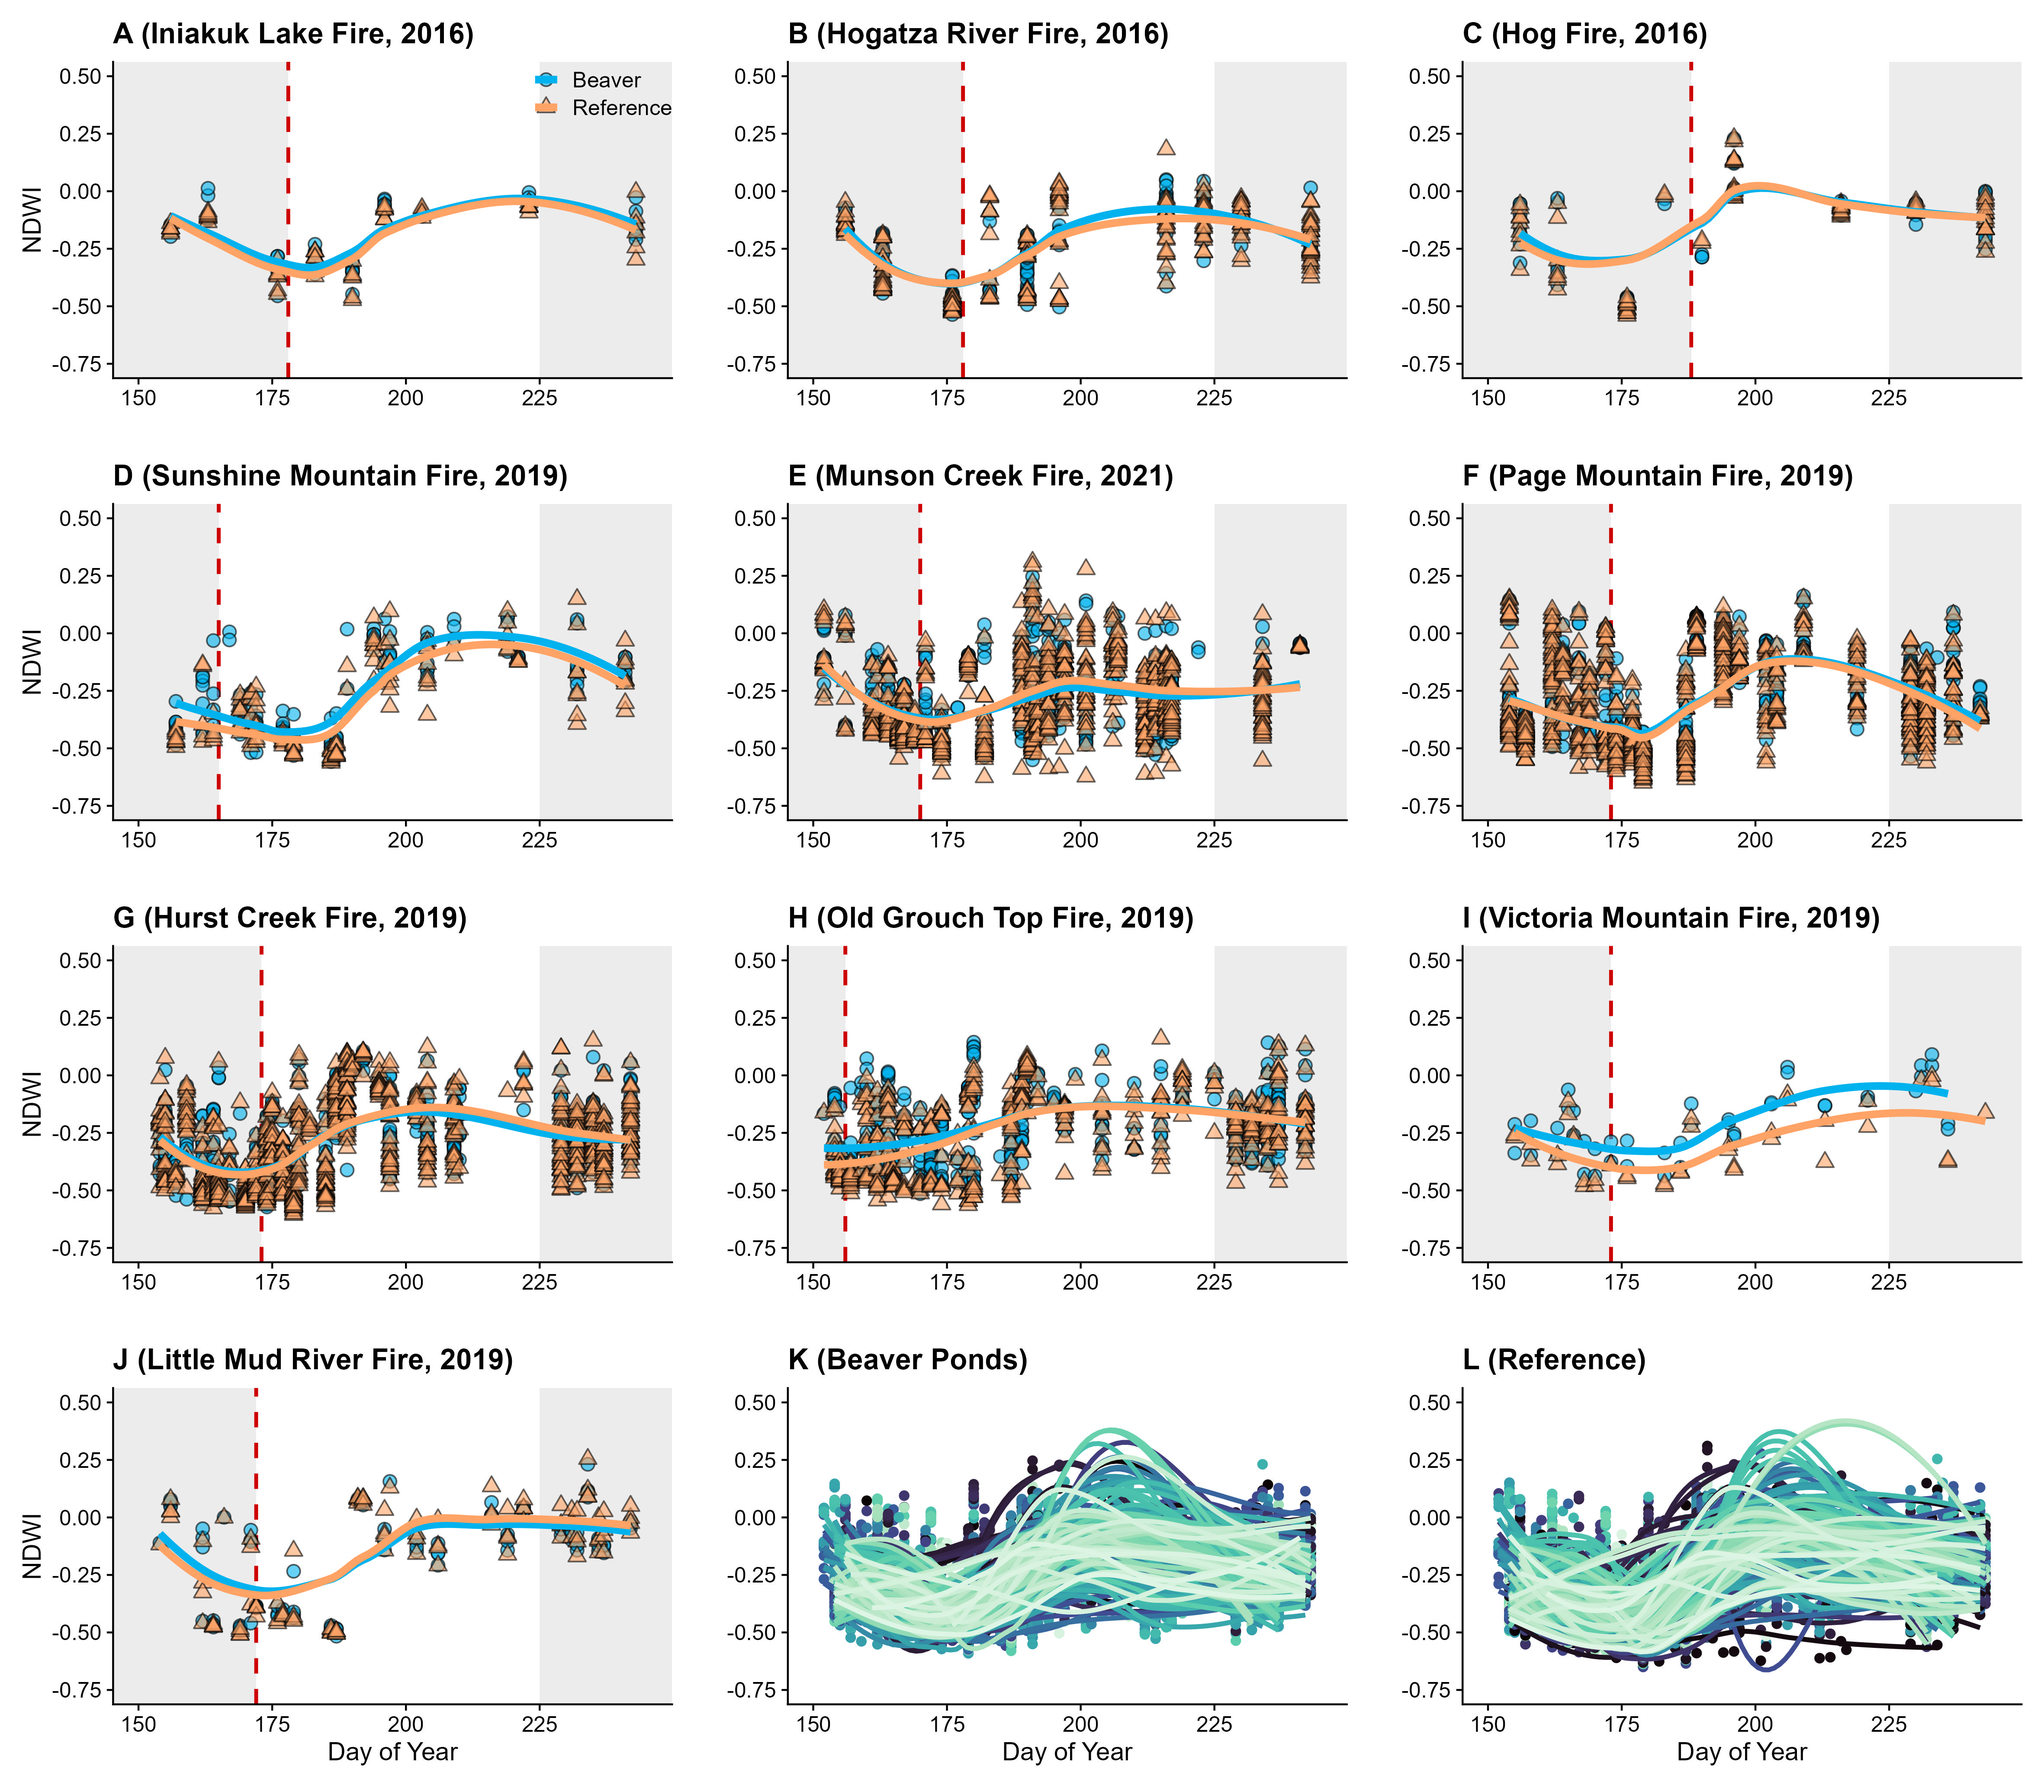
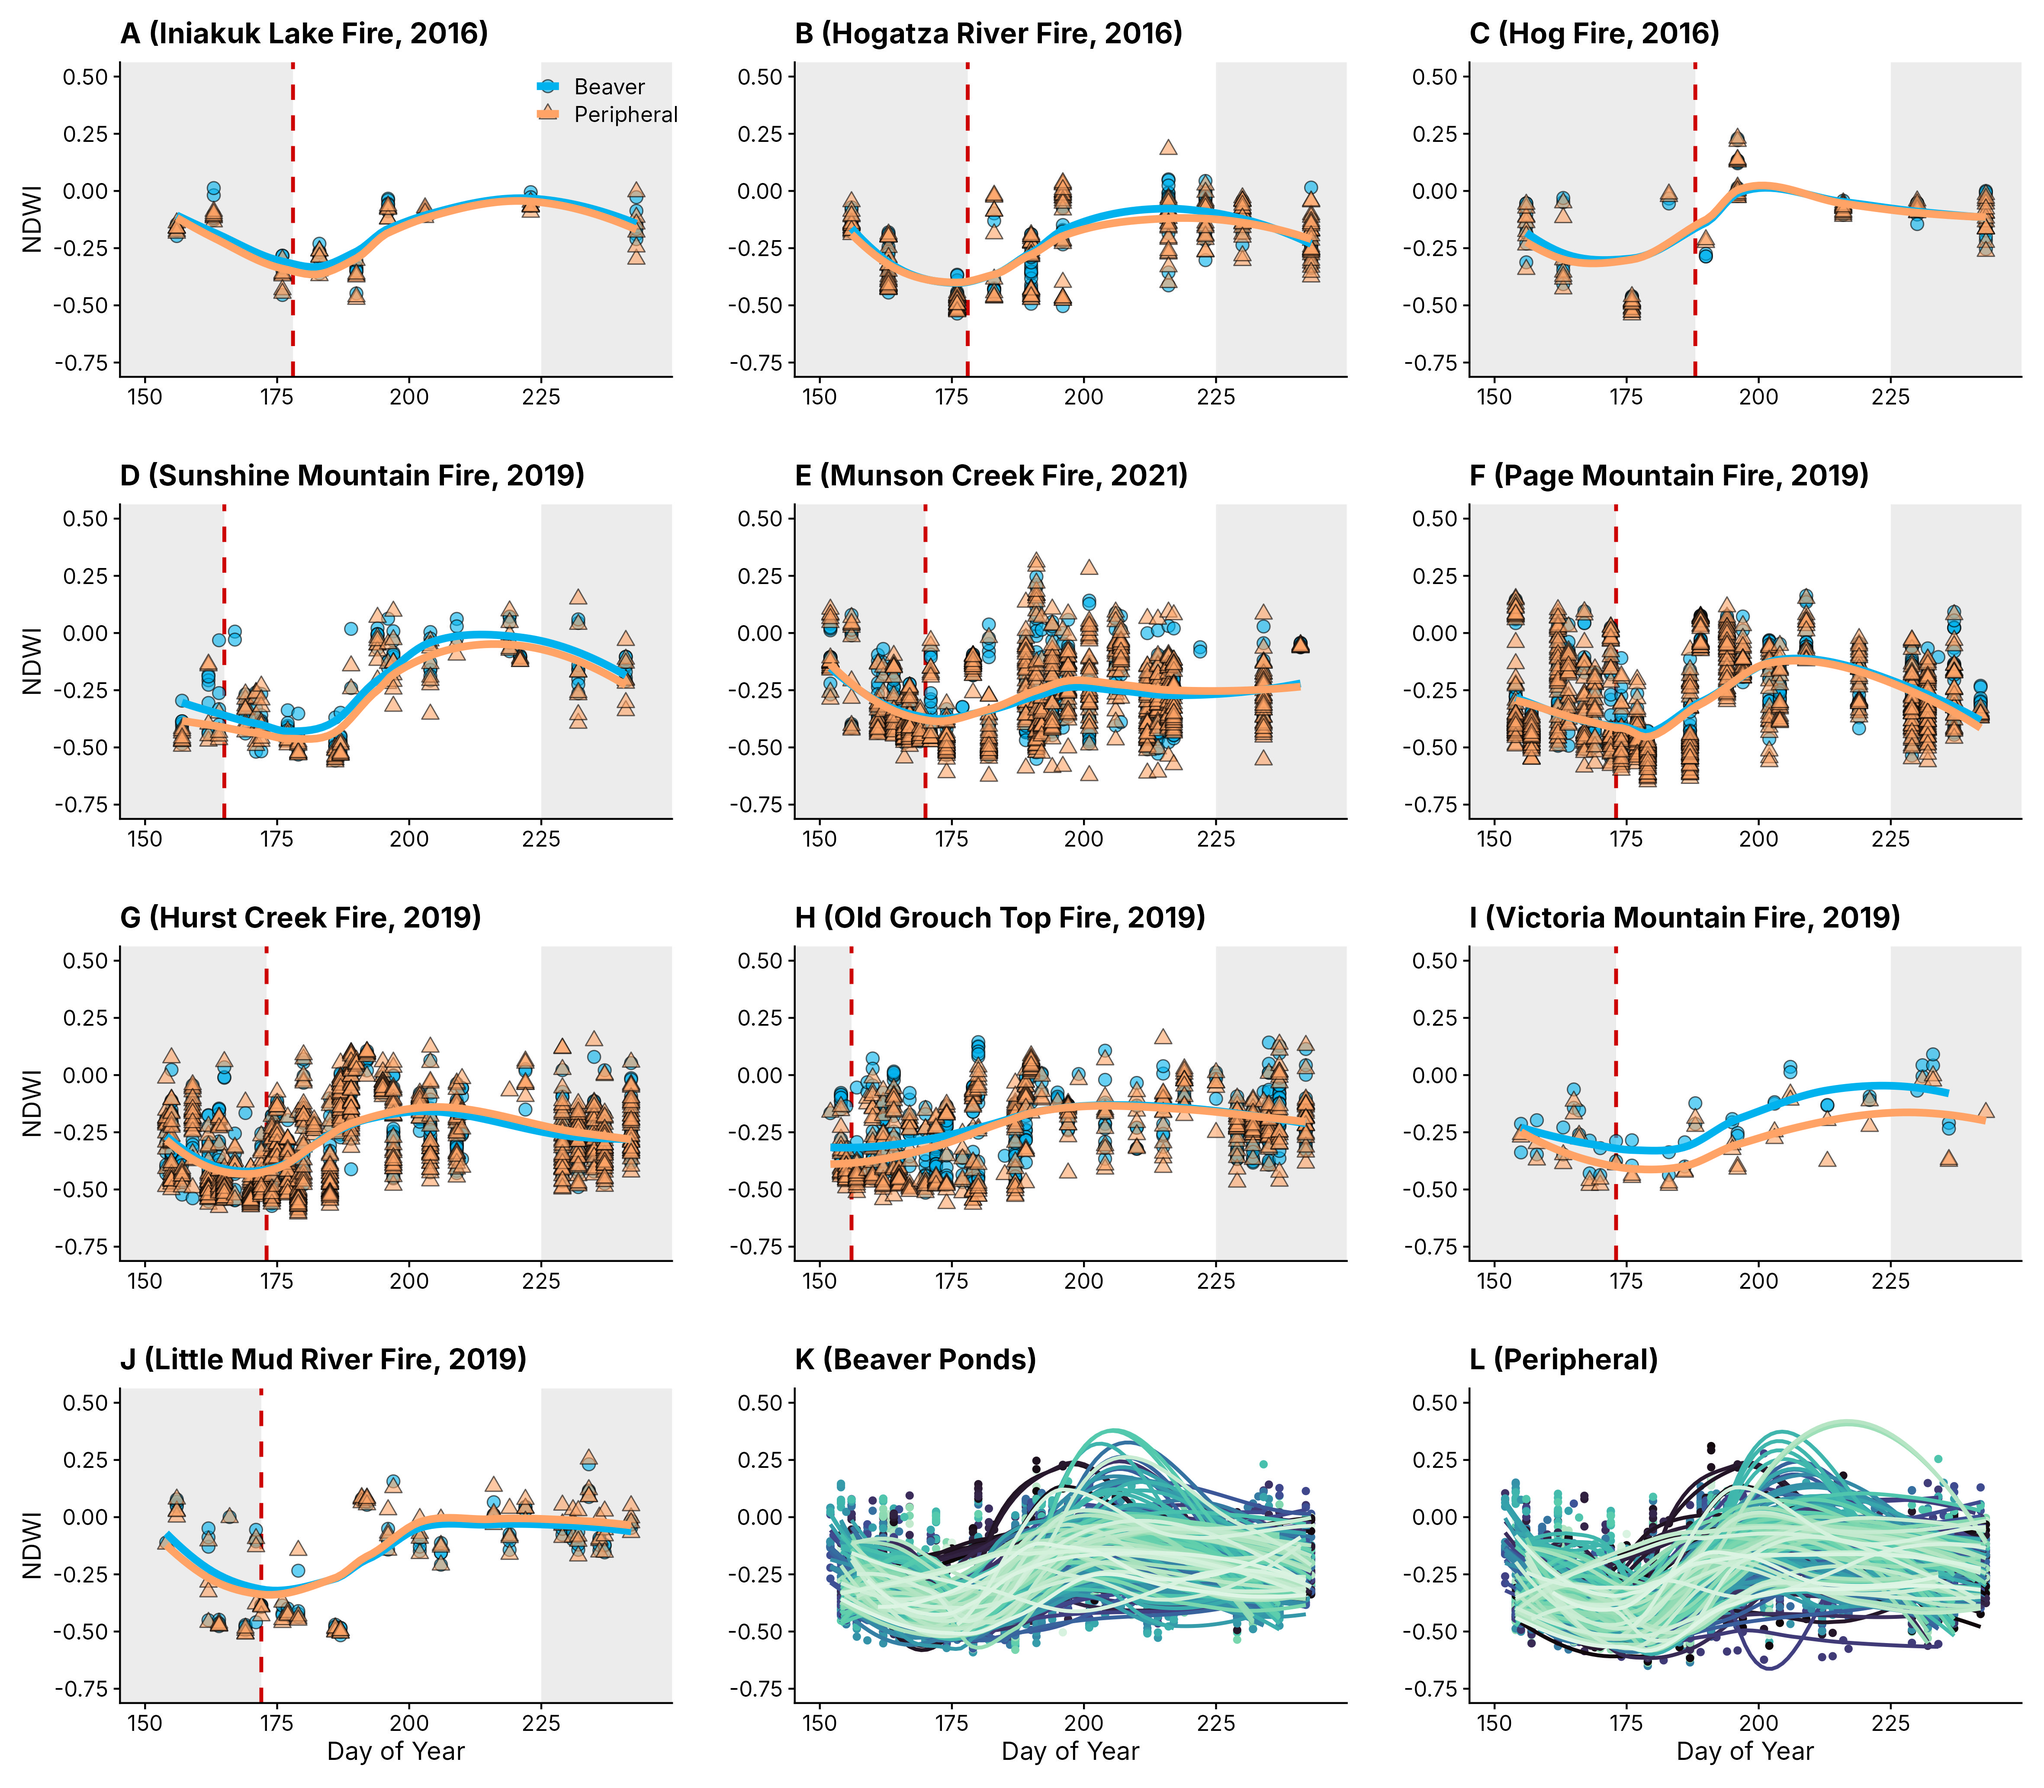
Final push for preprint

diff --git a/README.md b/README.md
@@ -17,7 +17,8 @@ We compared MTBS burn severity, Sentinel-2 NDVI, and Sentinel-2 NDWI between bea
    - It writes every manuscript figure to `Figures/REVISED_*.jpeg`.
    - It writes Table S1 (image dates by fire) to `Figures/REVISED_Table_image_dates_by_fire.csv`.
    - Its last section ("Summary of numbers for the manuscript") prints every statistic reported in the paper.
-3. The `Newdata/*_long.csv` files were made by the "Data prep" section of the original script, `Beaver pond wildfire time series analysis.R`. You only need to rerun that section to rebuild them from the Google Earth Engine exports.
+3. NDVI and NDWI were extracted from Sentinel-2 imagery with this Google Earth Engine script: https://code.earthengine.google.com/42a7ac3c070ca7972d55648a3ef426c5
+4. The `Newdata/*_long.csv` files were made by the "Data prep" section of the original script, `Beaver pond wildfire time series analysis.R`. You only need to rerun that section to rebuild them from the Google Earth Engine exports.
 
 Packages: tidyverse, lubridate, patchwork, cowplot, viridis, lme4, lmerTest, ordinal. Tested with R 4.3.3.
 
@@ -70,7 +71,7 @@ Changes are marked in the revised script with `#CHANGED:` and `#NEW:` comments.
   - Paired sites are a median of 160 m apart.
 - **Burn severity classes:** the ArcGIS exports use "Unburned", "Mild", "Moderate", and "Severe". These are the MTBS thematic classes "Unburned to Low", "Low", "Moderate", and "High".
 - **Sites with no MTBS data** (masked for poor imagery) were excluded: 10 beaver ponds and 16 peripheral sites.
-- **Pond confidence:** `pond_confidence` in `Spatial/` comes from the mapping notes. Y = confident, M = possible pond, blank = not recorded. All ponds were included in the analyses. Excluding the 26 "M" ponds does not change the conclusions.
+- **Pond confidence:** `pond_confidence` in `Spatial/` comes from the mapping notes. Y = confident, M = possible pond, blank = not recorded. All ponds were included in the analyses. The last section of the revised script reruns the models without the 25 "M" ponds and their paired peripheral sites; the conclusions do not change.
 - **Site counts:** the GEE files contain 231 beaver and 223 peripheral buffers, and the burn severity tables contain 235 of each. Analyses match sites by fire and pond number.
 
 ## Changes from the 2025 analysis
